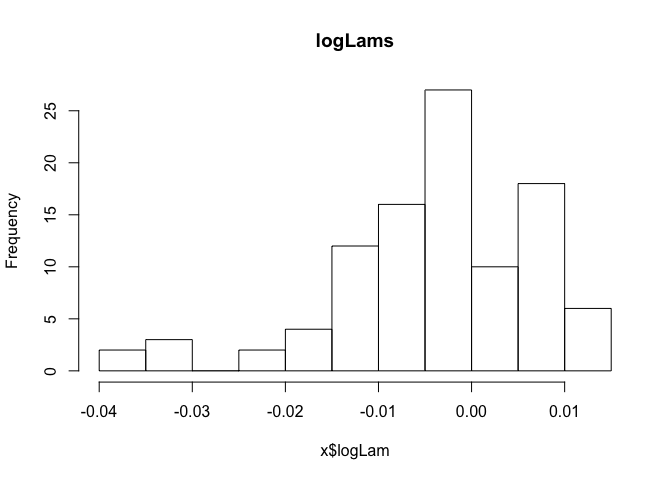
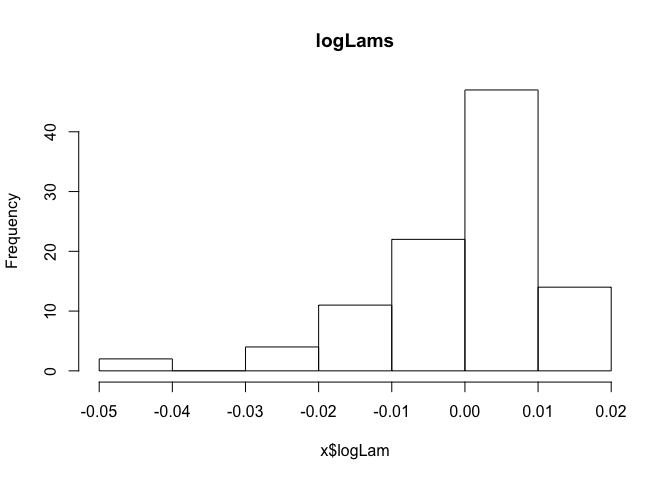
Bonified calculate_params_from_file example to clarify the "do.call" usage

diff --git a/README.md b/README.md
@@ -62,9 +62,9 @@ print(res)
 
 ```
 This is the deterministic lambda value :  1.0319573564599
-And this is the mean stochastic lambda :  0.999421003284329
+And this is the mean stochastic lambda :  0.999727790631239
 Below is mean and standard deviation of log lambda :
--0.000659528776884575 0.0127702461089203
+-0.000333404772698669 0.0111446731671174
 ```
 
 ```r
@@ -95,7 +95,7 @@ Warning in calculate_params_from_file(system.file("extdata", "PolarBear_Stirling
 ```
 
 ```r
-do.call(
+res <- do.call(
  "simulate_ms_pva",
  c(
    params,
@@ -110,13 +110,14 @@ do.call(
    )
  )
 )
+print(res)
 ```
 
 ```
 This is the deterministic lambda value :  1.05786392886293
-And this is the mean stochastic lambda :  0.991052057582597
+And this is the mean stochastic lambda :  0.991595625542989
 Below is mean and standard deviation of log lambda :
--0.00903367013844554 0.00959954191957428
+-0.00849107085122052 0.0101978610430018
 ```
 
 ## Run it for a single population
@@ -138,7 +139,7 @@ print(res)
 ```
 
 ```
-Over a 50 years span, the extinction risk of this population is 0.15
+Over a 50 years span, the extinction risk of this population is 0.11
 And the risk of decline is 0.18
 ```
 
